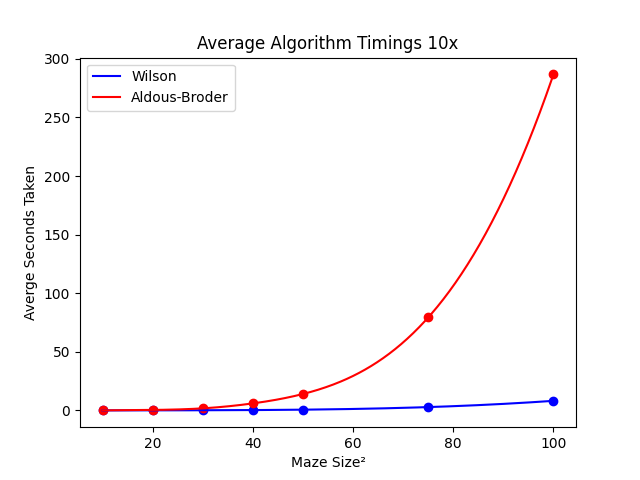
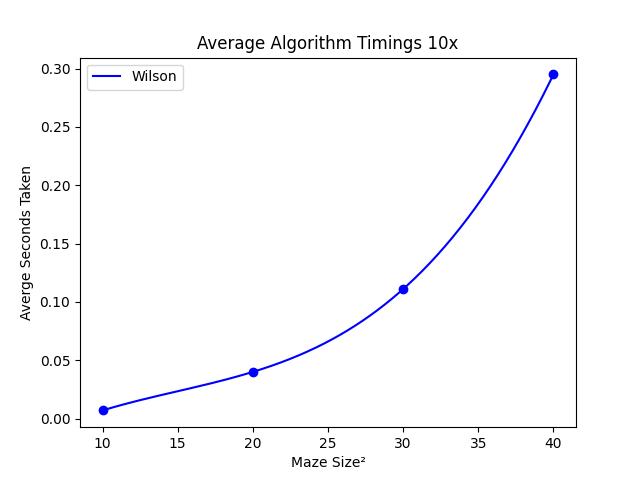
update

diff --git a/benchmark.py b/benchmark.py
@@ -40,7 +40,9 @@ def benchmark(func, num_tests, size):
 # inputs
 num_tests = 10
 maze_sizes = np.array([10, 20, 30, 40, 50, 75, 100])
-# maze_sizes = np.array([10, 20, 30, 40])
+maze_sizes = np.array([10, 20, 30, 40])
+
+
 
 
 # test wilson
@@ -50,56 +52,58 @@ for size in maze_sizes:
 
 	current_size_timeings.insert(0, round(statistics.mean(current_size_timeings), 3))
 	# current_size_timeings.insert(0, str(size))
-	wilson_timings.append(current_size_timeings)
-
-
-for i, size_times in enumerate(wilson_timings):
-	print(f"Wilson-{maze_sizes[i]} avg: {size_times[0]}") 
+	wilson_timings.append(round(statistics.mean(current_size_timeings), 3))
 
 
 
-wilson_timings_array = np.array(wilson_timings)
-wilson_averages_list = wilson_timings_array[:,0]
+
+# wilson_averages_list = np.array(wilson_timings)
+maze_sizes_1 = ','.join(map(str, maze_sizes)) 
+print(maze_sizes_1)
+
+csv_wilson = np.array(wilson_timings).reshape(1, -1)
+np.savetxt("./benchmarks" + "/wilson_benchmarks.csv", X=csv_wilson, header=maze_sizes_1, fmt='%f')
+print(wilson_timings)
 
 # plot wilson
 # smooth line look good
 xnew = np.linspace(maze_sizes.min(), maze_sizes.max(), 300)
-spl = make_interp_spline(maze_sizes, wilson_averages_list, k=3)
+spl = make_interp_spline(maze_sizes, wilson_timings, k=3)
 average_smooth = spl(xnew)
 
 plt.plot(xnew, average_smooth, color="blue", label="Wilson")
-plt.scatter(maze_sizes, wilson_averages_list, color='blue', marker='o')
+plt.scatter(maze_sizes, wilson_timings, color='blue', marker='o')
 
 
 
 
 
 # test aldous-broder
-aldous_timings = []
-for size in maze_sizes:
-	current_size_timeings = benchmark(generate_aldous_broder, num_tests, size)
+# aldous_timings = []
+# for size in maze_sizes:
+# 	current_size_timeings = benchmark(generate_aldous_broder, num_tests, size)
 
-	current_size_timeings.insert(0, round(statistics.mean(current_size_timeings), 3))
-	# current_size_timeings.insert(0, str(size))
-	aldous_timings.append(current_size_timeings)
-
-
-for i, size_times in enumerate(aldous_timings):
-	print(f"Aldous-{maze_sizes[i]} avg: {size_times[0]}") 
+# 	current_size_timeings.insert(0, round(statistics.mean(current_size_timeings), 3))
+# 	# current_size_timeings.insert(0, str(size))
+# 	aldous_timings.append(current_size_timeings)
 
 
+# for i, size_times in enumerate(aldous_timings):
+# 	print(f"Aldous-{maze_sizes[i]} avg: {size_times[0]}") 
 
-aldous_timings_array = np.array(aldous_timings)
-aldous_averages_list = aldous_timings_array[:,0]
 
-# plot aldous-broder
-# smooth line look good
-xnew = np.linspace(maze_sizes.min(), maze_sizes.max(), 300)
-spl = make_interp_spline(maze_sizes, aldous_averages_list, k=3)
-average_smooth = spl(xnew)
 
-plt.plot(xnew, average_smooth, color="red", label="Aldous-Broder")
-plt.scatter(maze_sizes, aldous_averages_list, color='red', marker='o')
+# aldous_timings_array = np.array(aldous_timings)
+# aldous_averages_list = aldous_timings_array[:,0]
+
+# # plot aldous-broder
+# # smooth line look good
+# xnew = np.linspace(maze_sizes.min(), maze_sizes.max(), 300)
+# spl = make_interp_spline(maze_sizes, aldous_averages_list, k=3)
+# average_smooth = spl(xnew)
+
+# plt.plot(xnew, average_smooth, color="red", label="Aldous-Broder")
+# plt.scatter(maze_sizes, aldous_averages_list, color='red', marker='o')
 
 
 

diff --git a/generation_algorithms/recursive.py b/generation_algorithms/recursive.py
@@ -7,33 +7,41 @@ import utilities
 
 
 
-def generate_recursive(size=(50,50)):
+def generate_recursive(size=(20,20), display=False, display_stepped=False, waitTime=10, scale=3, square_size=6, wall_thickness=1, wall_color=(0,0,0,255), background_color=(255,255,255), verbose=True):
 
 	# empty maze starts with all cells with full walls, aka 0
 	maze = np.full((size[1], size[0]), 0, dtype=np.uint8)
 
 	# random empty cell = current
 	current = (random.randint(0, size[0]-1),random.randint(0, size[1]-1))
-	recursive_function(maze, current)
+	recursive_function(maze, current, waitTime, square_size, wall_thickness, display_stepped, verbose)
 
+	if display: utilities.display_maze(maze, scale=scale, display=True, waitTime=1000, square_size=square_size, wall_thickness=wall_thickness, wall_color=wall_color, background_color=background_color)	
 	return maze
 
 
-def recursive_function(maze, cell):
+def recursive_function(maze, cell, waitTime, square_size, wall_thickness, display_stepped, verbose):
 
 	neighbors = utilities.get_empty_neighbors(maze, cell)
-	print(f"len: {len(neighbors)}, neighbors: {neighbors}")
+	# print(f"len: {len(neighbors)}, neighbors: {neighbors}")
 
 	while len(neighbors) > 0:
 		# remove wall between current and neighbor
-		maze = utilities.add_path(maze, [cell, random.choice(neighbors)])
-		print("path added")
-		utilities.display_maze(maze, scale=6, display=True, waitTime=100, square_size=6, wall_thickness=1)	
+		next = random.choice(neighbors)
+		maze = utilities.add_path(maze, [cell, next])
+		if display_stepped: utilities.display_maze(maze, scale=6, display=True, waitTime=waitTime, square_size=square_size, wall_thickness=wall_thickness)	
 
-		recursive_function(maze, random.choice(neighbors))
+		recursive_function(maze, next, waitTime, square_size, wall_thickness, display_stepped, verbose)
 	
 		neighbors = utilities.get_empty_neighbors(maze, cell)
 
 
-	print("leaf")
+				# find all empty cells
+
+		if verbose: 
+			empty_cells = utilities.get_empty_cells(maze)
+			print(f"Empty: {len(empty_cells): >10}", end='\r')
+
+
+	# print("leaf")
 

diff --git a/main.py b/main.py
@@ -22,11 +22,7 @@ maze_array, maze_img = generate_wilson(size=(20,20),
 									   display=True, 
 									   display_stepped=True, 
 									   waitTime=10, 
-									   scale=3, 
-									   square_size=6, 
-									   wall_thickness=1,
-									   wall_color=(0,0,0,255), 
-									   background_color=(255,255,255))
+									   scale=3)
 
 
 
@@ -35,6 +31,10 @@ maze_array, maze_img = generate_wilson(size=(20,20),
 
 
 
-# sys.setrecursionlimit(1500)
-# recursive_maze = generate_recursive(size=(10,10))
-# display_maze(recursive_maze, display=True, waitTime=0)
+sys.setrecursionlimit(1500)
+recursive_maze = generate_recursive(size=(40,40), 
+									display=True, 
+									display_stepped=False, 
+									waitTime=10, 
+									scale=3)
+display_maze(recursive_maze, display=True, waitTime=0)

diff --git a/utilities.py b/utilities.py
@@ -129,7 +129,7 @@ def display_image(img, title, scale, waitTime):
 
 
 
-def display_maze(maze, wall_color=(0,0,0,255), background_color=(255,255,255,255), wall_thickness=1, square_size=6, title="maze", scale=4, display=False, waitTime=500, dest_cell=(-1,-1)):
+def display_maze(maze, wall_color=(0,0,0,255), background_color=(255,255,255,255), wall_thickness=1, square_size=6, title="maze", scale=3, display=False, waitTime=500, dest_cell=(-1,-1)):
 	maze_x = (maze.shape[0] * square_size) - ((maze.shape[0] * wall_thickness) - 1)
 	maze_y = (maze.shape[1] * square_size) - ((maze.shape[1] * wall_thickness) - 1)
 	maze_img = Image.new("RGBA", (maze_y, maze_x), background_color)

diff --git a/test_pytest.py b/test_pytest.py
@@ -1,5 +1,4 @@
 import generation_algorithms.wilson_algo as wilson_algo
-import pieces
 import utilities
 import numpy as np
 

diff --git a/README.md b/README.md
@@ -6,8 +6,8 @@
 |Algorithms||| 
 |--|--|--|
 |Wilson|Randomly walks from random point A to random point B, then starts again from a random point until it touches an existing path. Repeat.|https://en.wikipedia.org/wiki/Maze_generation_algorithm#Wilson's_algorithm|
-|Aldous-Brodor||
-|||
+|Aldous-Brodor|Pick a random neighbour. If not visited, remove wall between current and picked. Mark as visited. Make picked neighbor current. - One of the least efficient algorithms.|https://en.wikipedia.org/wiki/Maze_generation_algorithm#Aldous-Broder_algorithm|
+|Depth-first Recursive||
 
 ## Benchmarks 
 
